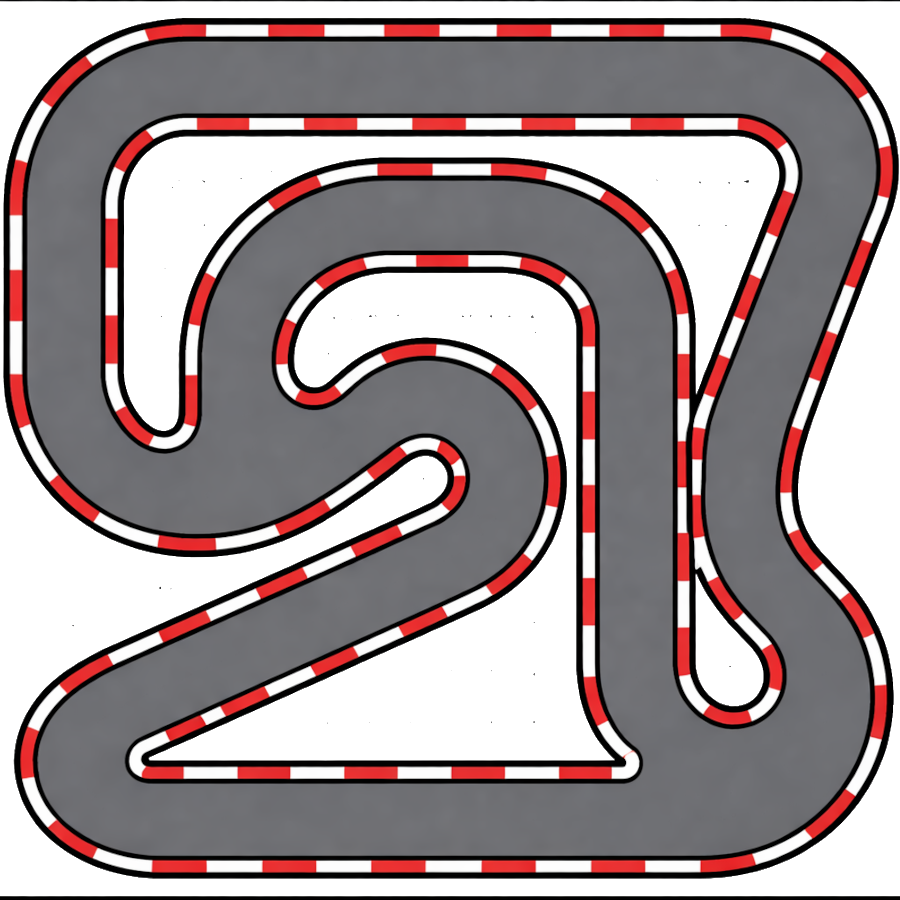
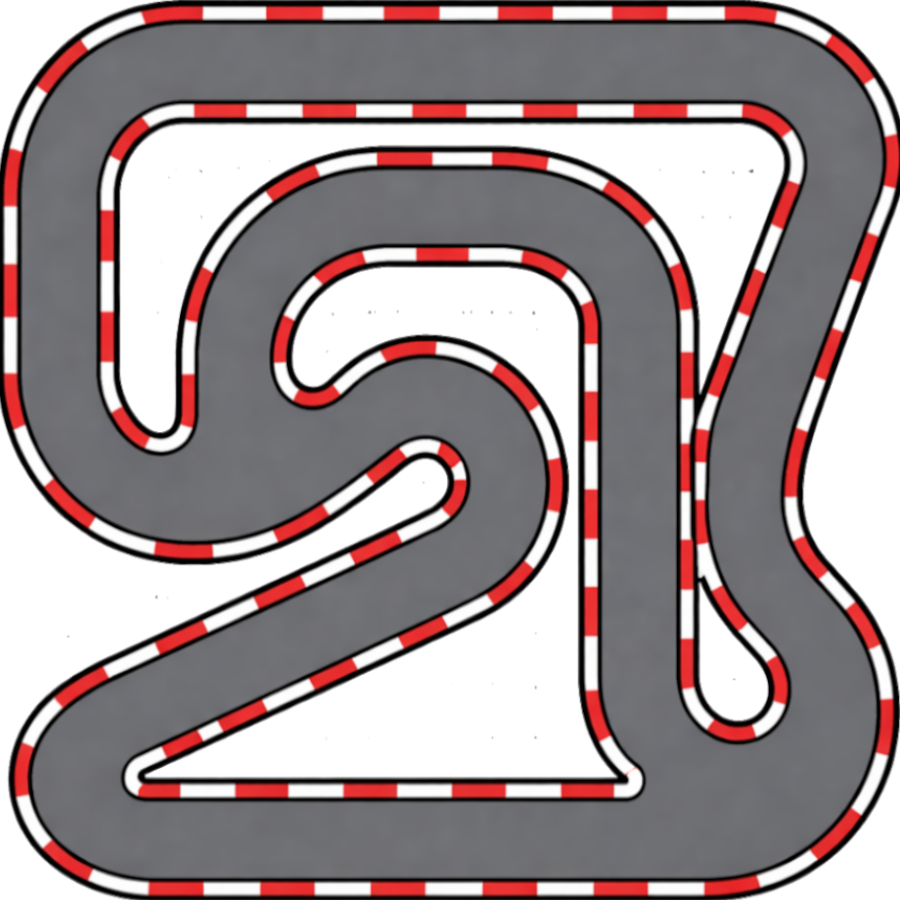
updated track2 assets and adjusted level 2 and 3 racing lines with speed multipliers. ADDED NEW DEBUG MODE FOR DRAWING/PLOTTING POINTS

diff --git a/resources.py b/resources.py
@@ -45,6 +45,7 @@ GRID_SIZE = 4
 CHECKPOINT_RADIUS = 45 # Increased by 5 pixels for easier checkpoint detection
 DEBUG_SHOW_CHECKPOINTS = True  # Set to True to show red checkpoint dots and pathfinding visualization
 DEBUG_UNLOCK_ALL_LEVELS = False  # Set to True to unlock all levels for testing/debugging
+DEBUG_DRAW_POINTS = False # Enables drawing and plotting of points on levels during them being played
 
 # --------------------------------------------------
 # Static assets
@@ -194,8 +195,8 @@ SPEED_MULTIPLIER_CONFIG = {
     2: {
         "Player": 1.00,
         "BFS": 1.06,
-        "DFS": 0.92,
-        "GBFS": 0.92,
+        "DFS": 0.8,
+        "GBFS": 0.8,
         "AStar": 0.92,
         "Dijkstra": 0.92,
         "NEAT": 0.92,
@@ -300,21 +301,21 @@ def load_track_for_level(level):
         
         # Two possible paths after checkpoint (830, 660)
         path_to_junction = [
-            (70, 287), (80, 130), (125, 70), (300, 70), (600, 70), (760, 85),
-            (830, 130), (816, 235), (730, 470), (750, 583),
+            (70, 287), (90, 100), (135, 50), (300, 50), (600, 50), (760, 50),
+            (845, 130), (816, 235), (730, 470), (750, 583),
             (820, 750),
         ]
         
         # Path A: through (750, 750)
         path_a = path_to_junction + [
-            (750, 800), (348, 810), (118, 810), (69, 744), (93, 696), 
+            (750, 850), (348, 850), (90, 825), (70, 750), (93, 696), 
             (222, 632), (485, 527), (510, 416), (370, 392),
             (225, 470), (120, 470), 
         ]
         
         # Path B: through (630, 700)
         path_b = path_to_junction + [
-            (640, 700), (640, 480), (620, 260), (532, 220), (348, 220), (255, 260), 
+            (640, 700), (640, 480), (620, 280), (532, 220), (348, 220), (255, 260), 
             (229, 357), 
             (235, 450), (115, 475), 
             
@@ -338,48 +339,30 @@ def load_track_for_level(level):
         track_img = "assets/track3.png"
         border_img = "assets/track_border3.png"
 
-        FINISH_POSITION = (410, 190)
-        START_POSITION = (430, 150)
+        FINISH_POSITION = (395, 435)
+        START_POSITION = (440, 350)
 
-        zero_to_one = [(450, 110), (600, 100), (765, 100), (800, 180), (767, 250), (600, 275), (580, 390)]
-        one_to_twoA = [(450, 390), (429, 485), (482, 544), (607, 556), (624, 671)]
-        one_to_twoB = [(718, 381), (785, 442), (787,689)]
-        one_to_four = [(440, 390)]
-        two_to_three = [(573, 761), (257, 727), (83, 644), (84, 475), (157, 445), (241, 372)]
-        two_to_four = [(624, 671), (607, 556), (482, 544), (429, 485), (440, 390)]
-        three_to_one = [(192, 307), (101, 298), (82, 124), (170, 80), (275, 124), (296, 213), (440, 241)]
-        four_to_three = [(241, 372)]
-        four_to_zero = [(440, 241)]
+        level3_path = [
+            (442, 108), (486, 48), (661, 49), (795, 75), (842, 108), (849, 200),
+            (764, 248), (620, 252), (589, 302), (587, 389), (792, 398), (859, 443),
+            (855, 654), (842, 773), (708, 781), (661, 712), (655, 627), (610, 582),
+            (541, 578), (473, 581), (443, 535), (445, 425),
+        ]
 
-        # shortest route to 1
-        zero_to_one = zero_to_one   
+        level3_alt_path = [
+            (444, 235), (323, 227), (284, 189), (277, 101), (231, 43), (96, 49),
+            (56, 103), (52, 281), (122, 316), (239, 356), (231, 430), (178, 472),
+            (97, 473), (48, 520), (47, 685), (122, 783), (312, 804), (477, 819),
+            (654, 818), (653, 628), (608, 581), (482, 577), (443, 535), (444, 425),
+        ]
 
-        #shortest route to 2
-        zero_to_twoA = zero_to_one + one_to_twoA
-        zero_to_twoB = zero_to_one + one_to_twoB
-        zero_to_two = zero_to_twoA if compute_path_length(zero_to_twoA) <= compute_path_length(zero_to_twoB) else zero_to_twoB
+        RACING_LINE = level3_path
 
-        #shortest route to 3
-        zero_to_threeA = zero_to_two + two_to_three
-        zero_to_threeB = zero_to_one + one_to_twoB + two_to_four + four_to_three
-        zero_to_three = zero_to_threeA if compute_path_length(zero_to_threeA) <= compute_path_length(zero_to_threeB) else zero_to_threeB
+        DFS_RACING_LINE = level3_alt_path
+        BFS_RACING_LINE = level3_alt_path
+        ASTAR_RACING_LINE = level3_path
+        GBFS_RACING_LINE = level3_path
 
-        #shortest route to 4
-        zero_to_fourA = zero_to_one + one_to_four   
-        zero_to_fourB = zero_to_three + three_to_four
-        zero_to_four = zero_to_fourA if compute_path_length(zero_to_fourA) <= compute_path_length(zero_to_fourB) else zero_to_fourB 
-
-        #shortest route to 0
-        zero_to_zeroA = zero_to_three + three_to_zero
-        zero_to_zeroB = zero_to_four + four_to_zero
-        zero_to_zero = zero_to_zeroA if compute_path_length(zero_to_zeroA) <= compute_path_length(zero_to_zeroB) else zero_to_zeroB
-
-        RACING_LINE = zero_to_zero
-
-        DFS_RACING_LINE = zero_to_zeroA
-        BFS_RACING_LINE = zero_to_fourA + four_to_three + three_to_zero
-        ASTAR_RACING_LINE = zero_to_zero
-        GBFS_RACING_LINE = zero_to_one + one_to_twoB + two_to_four + four_to_zero
 
     elif level == 4:
         print("Loading level 4")
@@ -442,19 +425,9 @@ def load_track_for_level(level):
 
     GRID = build_grid(TRACK_BORDER_MASK)
 
-    # For level 3, create a cropped finish image bound by the track
     global FINISH, FINISH_MASK
-    if level == 3:
-        # Load the original finish image and crop it to be bound by the track
-        finish_original = pygame.image.load("assets/finish.png")
-        # Crop the right side to remove overflow - keep left 60 pixels
-        crop_rect = pygame.Rect(0, 0, 60, finish_original.get_height())
-        FINISH = finish_original.subsurface(crop_rect).copy()
-        FINISH_MASK = pygame.mask.from_surface(FINISH)
-    else:
-        # Use default finish image for other levels
-        FINISH = pygame.image.load("assets/finish.png")
-        FINISH_MASK = pygame.mask.from_surface(FINISH)
+    FINISH = pygame.image.load("assets/finish.png")
+    FINISH_MASK = pygame.mask.from_surface(FINISH)
 
     images[:] = [
         (BACKGROUND, (0, 0)),

diff --git a/main.py b/main.py
@@ -109,6 +109,10 @@ def load_trained_network(config):
         return None
 
 
+def get_plotted_points_dict(points):
+    return {i: pt for i, pt in enumerate(points)}
+
+
 async def main():
     pygame.init()
     #js_console_log("Game started")
@@ -134,6 +138,8 @@ async def main():
     clock = pygame.time.Clock()
     running = True
 
+    plotted_points = []
+
     menu = ui.Menu()
     menu.drawMain(WIN)
 
@@ -149,6 +155,14 @@ async def main():
         for event in pygame.event.get():
             if event.type == pygame.QUIT:
                 running = False
+
+            if (
+                resources.DEBUG_DRAW_POINTS
+                and game_state == STATE_RACING
+                and event.type == pygame.MOUSEBUTTONDOWN
+                and event.button == 1
+            ):
+                plotted_points.append((int(event.pos[0]), int(event.pos[1])))
 
             # -------- MENU / UI STATES --------
             if game_state in (STATE_MENU, STATE_LEVEL_SELECT, STATE_PAGE1, STATE_PAGE2):
@@ -317,6 +331,20 @@ async def main():
                 dijkstra_car
             )
 
+            if resources.DEBUG_DRAW_POINTS:
+                for idx, (px, py) in enumerate(plotted_points):
+                    pygame.draw.circle(WIN, (255, 60, 60), (px, py), 5)
+                    pygame.draw.circle(WIN, (255, 255, 255), (px, py), 5, 1)
+                    WIN.blit(_font(18).render(str(idx), True, (255, 255, 255)), (px + 8, py - 8))
+                WIN.blit(
+                    _font(22).render(
+                        f"DEBUG_DRAW_POINTS | points: {len(plotted_points)}",
+                        True,
+                        (255, 255, 255),
+                    ),
+                    (10, 10),
+                )
+
             if post_countdown_delay > 0:
                 post_countdown_delay = max(0.0, post_countdown_delay - dt)
 
@@ -404,6 +432,9 @@ async def main():
 
         pygame.display.flip()
         await asyncio.sleep(0)
+
+    if resources.DEBUG_DRAW_POINTS and plotted_points:
+        print(get_plotted_points_dict(plotted_points))
 
     pygame.quit()
 
